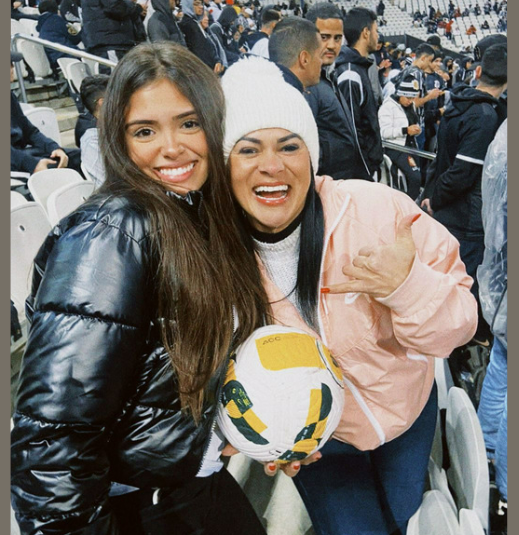
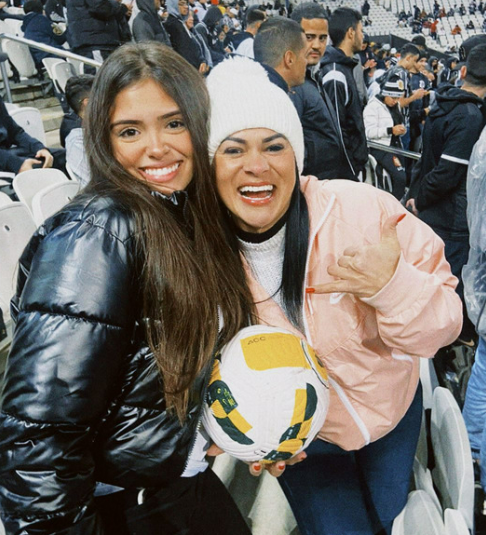
finalizado

diff --git a/site/public/css/sobreMim.css b/site/public/css/sobreMim.css
@@ -215,15 +215,19 @@ body {
 }
 
 .imagem-banner1 img{
-    width: 450px;
-    margin-top: -470px;
+    width: auto;
+    margin-top: -37%;
     margin-bottom: 50px;
     align-items: center;
-    margin-right: 100px;
+    margin-right: 7%;
     display: flex;
+    border-radius: 5px;
     flex-direction: row;
-    margin-left: 56%;
+    margin-left: 55%;
+    height: 450px;
     opacity: 0.7;
+    border: 8px solid #E3DCCD;
+    background-image: url('../assets/imgs/sobremim.png');
 } 
 
 .imagem-banner1 img:hover {

diff --git a/site/public/sobreMim.html b/site/public/sobreMim.html
@@ -67,7 +67,7 @@
                   por mérito e garra de quem conseguiu se transformar num gigante saindo da lama. </p2>
 
             <div class="imagem-banner1"> 
-                <img src="../public/assets/imgs/sobremim.png">
+                <img src="">
             </div>  
             <div class="title">
                 <h1> VALORES EM COMUM</h1>
